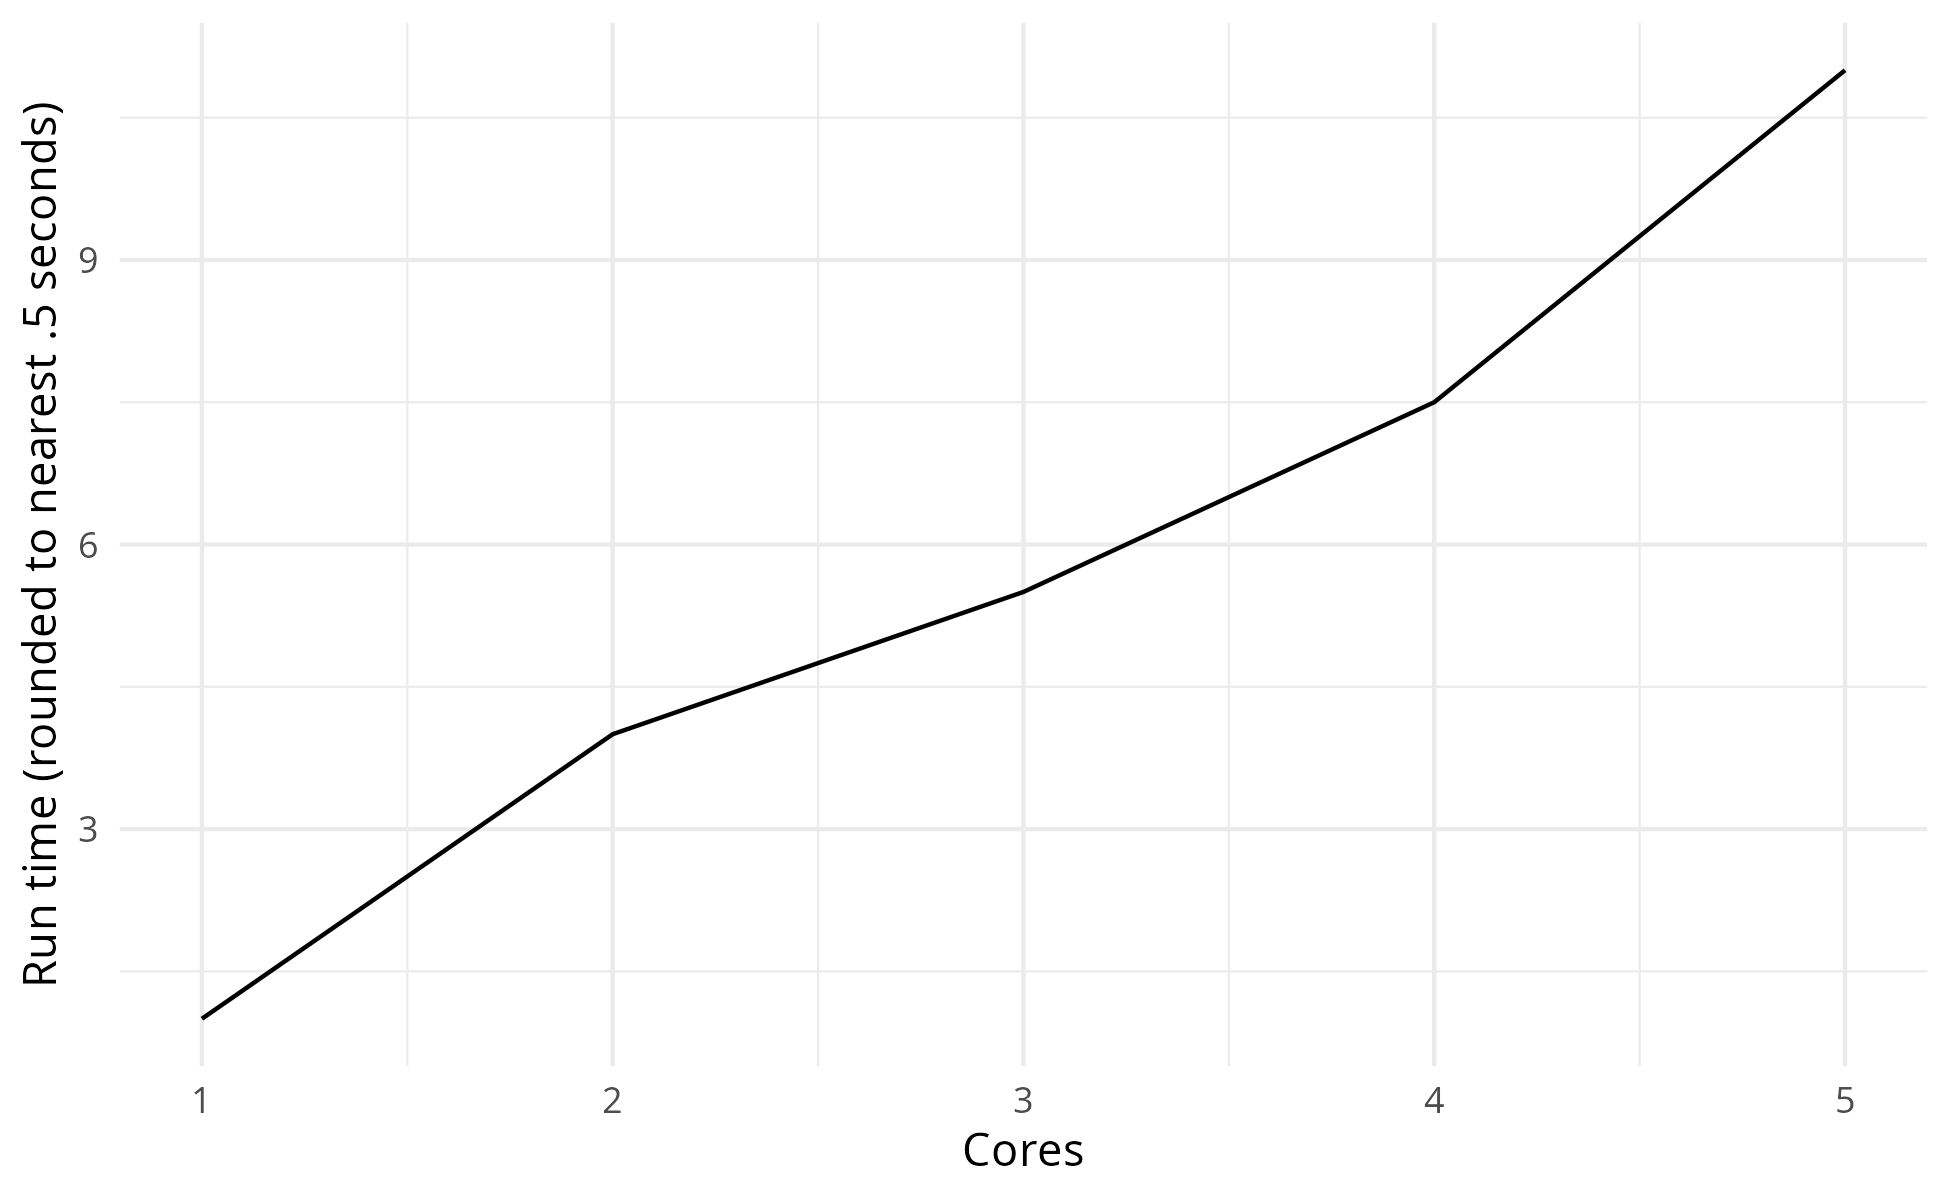
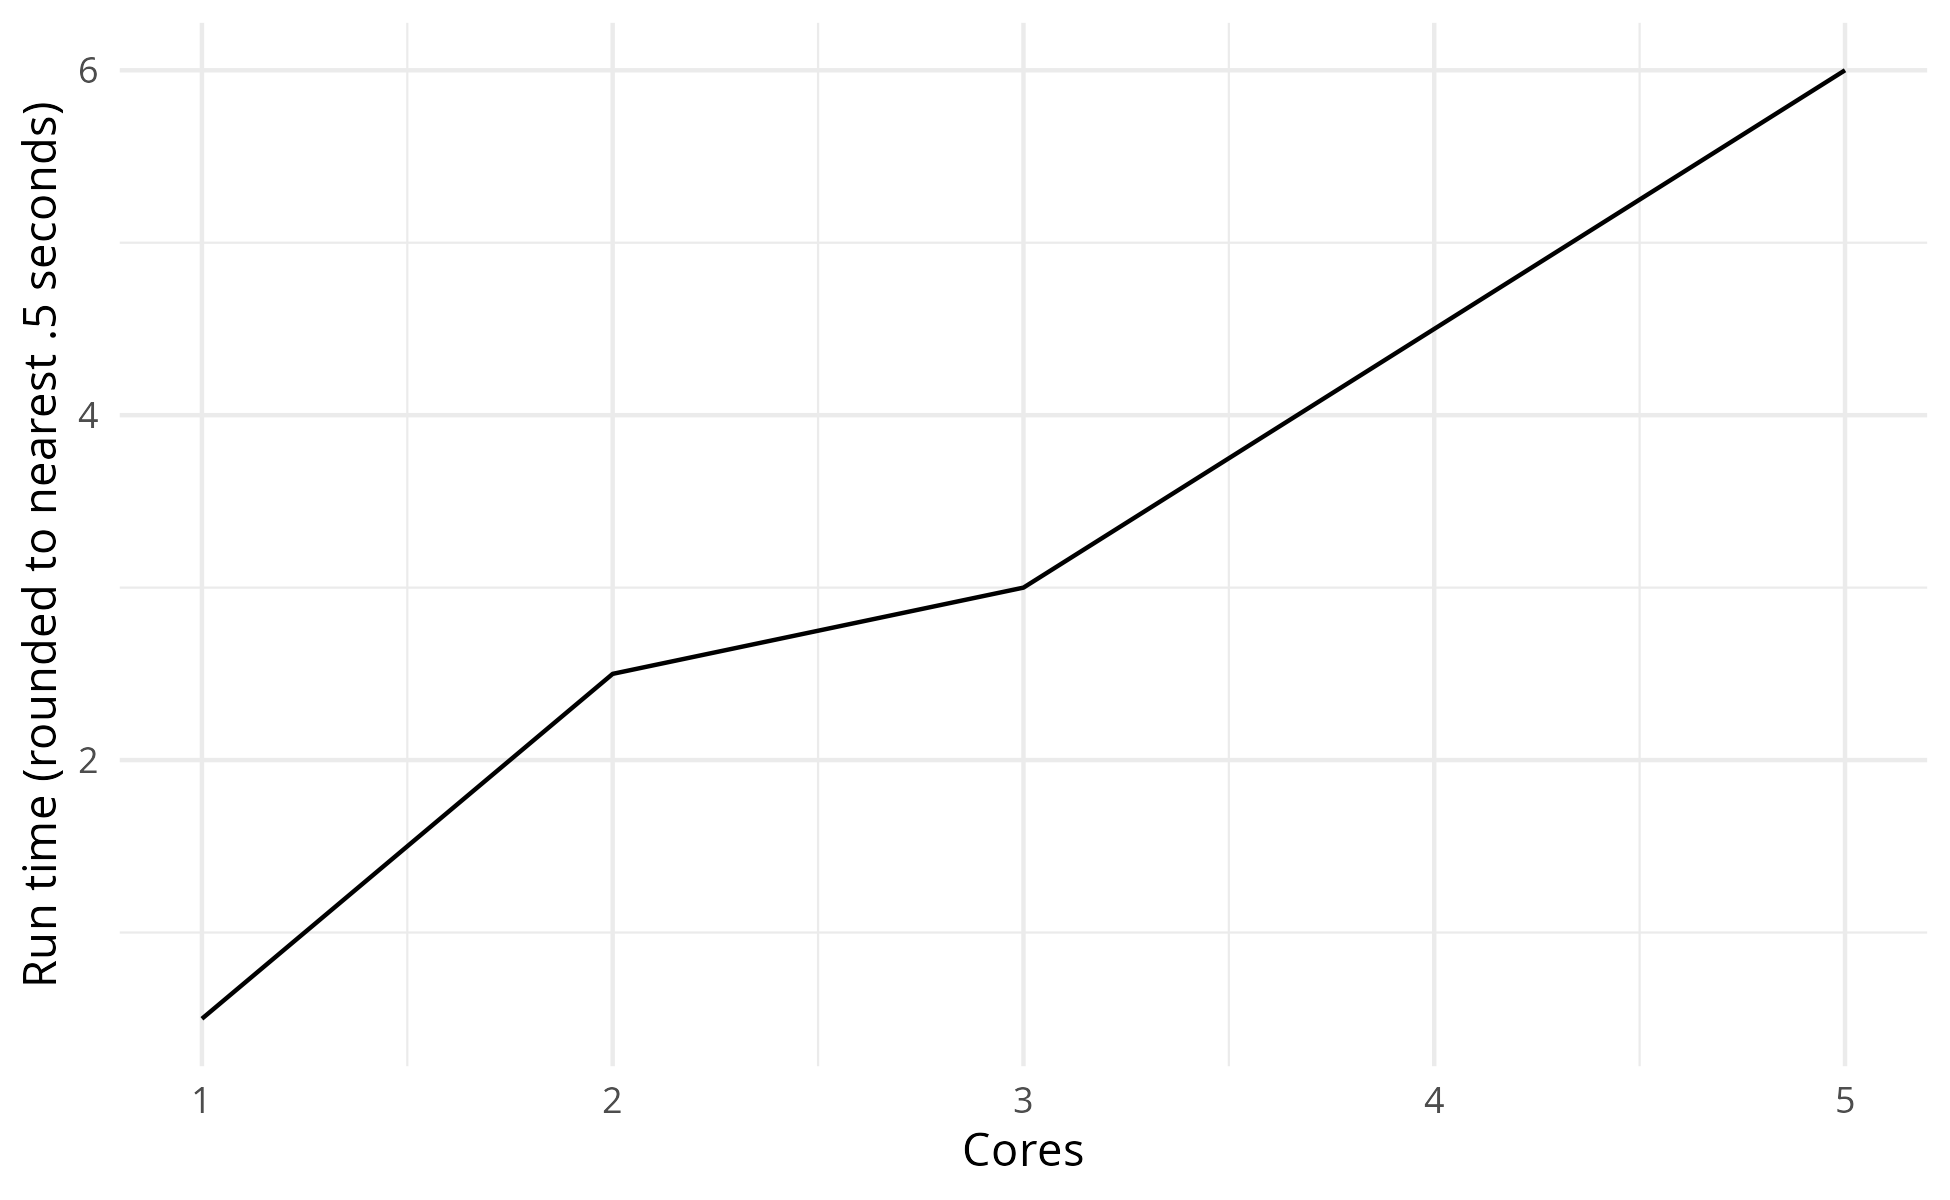
fix(times): re-ran notebooks, now no run time issues, guess computer was just feeling slow on friday...!

diff --git a/rmarkdown/analysis.md b/rmarkdown/analysis.md
@@ -1,7 +1,7 @@
 Analysis
 ================
 Amy Heather
-2025-01-31
+2025-02-03
 
 - [Set up](#set-up)
 - [Default run](#default-run)
@@ -399,7 +399,7 @@ print(table_latex)
 ```
 
     ## % latex table generated in R 4.4.1 by xtable 1.8-4 package
-    ## % Fri Jan 31 15:54:31 2025
+    ## % Mon Feb  3 10:37:02 2025
     ## \begin{table}[ht]
     ## \centering
     ## \begin{tabular}{rrllll}
@@ -508,7 +508,7 @@ print(sensitivity_table_latex)
 ```
 
     ## % latex table generated in R 4.4.1 by xtable 1.8-4 package
-    ## % Fri Jan 31 15:54:41 2025
+    ## % Mon Feb  3 10:37:08 2025
     ## \begin{table}[ht]
     ## \centering
     ## \begin{tabular}{rrl}
@@ -549,12 +549,12 @@ tail(result[["arrivals"]])
 ```
 
     ##           name start_time end_time activity_time resource replication
-    ## 160 patient154   76.80434       NA            NA    nurse           0
-    ## 161 patient155   77.41953       NA            NA    nurse           0
-    ## 162 patient156   77.59569       NA            NA    nurse           0
-    ## 163 patient157   77.98085       NA            NA    nurse           0
-    ## 164 patient158   78.34954       NA            NA    nurse           0
-    ## 165 patient160   78.41585       NA            NA    nurse           0
+    ## 160 patient148   74.24750       NA            NA    nurse           0
+    ## 161 patient152   76.34230       NA            NA    nurse           0
+    ## 162 patient143   72.44633       NA            NA    nurse           0
+    ## 163 patient145   72.73566       NA            NA    nurse           0
+    ## 164 patient153   76.74319       NA            NA    nurse           0
+    ## 165 patient156   77.59569       NA            NA    nurse           0
 
 ## Example run with logs
 
@@ -811,4 +811,4 @@ seconds <- as.integer(runtime %% 60L)
 print(sprintf("Notebook run time: %dm %ds", minutes, seconds))
 ```
 
-    ## [1] "Notebook run time: 0m 35s"
+    ## [1] "Notebook run time: 0m 18s"

diff --git a/rmarkdown/choosing_parameters.md b/rmarkdown/choosing_parameters.md
@@ -1,7 +1,7 @@
 Choosing parameters
 ================
 Amy Heather
-2025-01-31
+2025-02-03
 
 - [Set up](#set-up)
 - [Choosing the number of
@@ -419,4 +419,4 @@ seconds <- as.integer(runtime %% 60L)
 print(sprintf("Notebook run time: %dm %ds", minutes, seconds))
 ```
 
-    ## [1] "Notebook run time: 2m 15s"
+    ## [1] "Notebook run time: 1m 16s"
